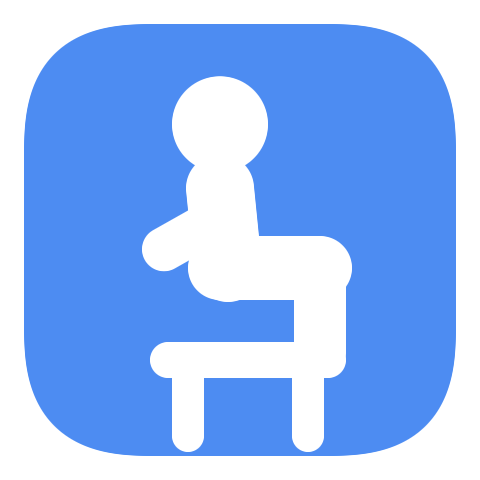
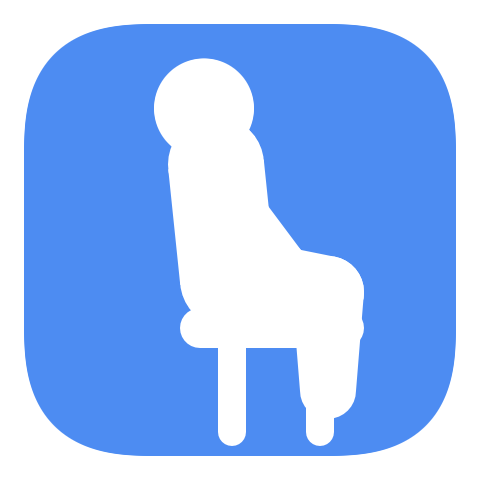
Redraw actor as a solid bathroom-guy silhouette
Replace the stroked stick-figure limbs (which read as blocky) with a
solid AIGA restroom-pictogram silhouette: each limb is a filled tapered
shape (wide at the joint, narrow at the end) that merges into one smooth
mass — broad rounded shoulders, tapering trunk, thin leg notch. Stand is
front-facing; sit is a side profile on a stool with breathing + a foot
tap; move is a side-profile walking stride (legs scissor, arm swings).

Changed region(s): [[0.2812, 0.0938, 0.7812, 0.9688]]

diff --git a/Sources/SitStandMove/FigureView.swift b/Sources/SitStandMove/FigureView.swift
@@ -1,12 +1,14 @@
 import SwiftUI
 
-/// A little restroom-sign style person performing the current action, drawn as
-/// a crisp solid-white silhouette on a solid phase-color tile (the "Sign"
-/// design direction) with a bit of looping motion: breathing while sitting,
-/// swaying while standing, marching while moving.
+/// A solid restroom-pictogram "bathroom guy" performing the current action,
+/// drawn white on a solid phase-color tile. The body is built from filled
+/// *tapered* limbs (wide at the joint, narrow at the end) that overlap into one
+/// smooth silhouette — broad rounded shoulders, a tapering trunk, legs split by
+/// a thin notch — rather than uniform-width sticks.
 ///
-/// All coordinates below live in a 0...120 space matching the source artwork,
-/// and are scaled to the view at draw time.
+/// Coordinates live in a 0...120 space (matching the source artwork) and are
+/// scaled to the view at draw time. Looping motion: breathing + a foot tap when
+/// seated, a gentle sway when standing, a march when moving.
 struct FigureView: View {
     let phase: Phase
 
@@ -19,97 +21,112 @@ struct FigureView: View {
         .accessibilityLabel("\(phase.title) figure")
     }
 
-    private struct Limb { var points: [CGPoint]; var width: Double }
-    private struct Figure { var head: CGPoint; var headRadius: Double; var limbs: [Limb]; var props: [Limb] }
+    /// A tapered segment: half-width `wa` at point `a`, `wb` at point `b`.
+    private struct Limb { var a: CGPoint; var wa: Double; var b: CGPoint; var wb: Double }
+    private struct Fig { var head: CGPoint; var headR: Double; var limbs: [Limb]; var props: [Limb] }
 
     // MARK: - Rendering
 
     private func draw(_ ctx: GraphicsContext, _ size: CGSize, _ t: Double) {
-        let unit = min(size.width, size.height)
-        let scale = unit / 120.0
+        let scale = min(size.width, size.height) / 120.0
 
-        // Solid phase-color tile: the high-contrast backdrop that makes the
-        // white figure pop and stay distinct from the panel behind it.
-        let margin = 6.0 * scale
-        let tileRect = CGRect(x: margin, y: margin,
-                              width: size.width - 2 * margin,
-                              height: size.height - 2 * margin)
-        ctx.fill(Path(roundedRect: tileRect, cornerRadius: 26 * scale), with: .color(phase.tint))
+        let m = 6 * scale
+        let tile = CGRect(x: m, y: m, width: size.width - 2 * m, height: size.height - 2 * m)
+        ctx.fill(Path(roundedRect: tile, cornerRadius: 26 * scale), with: .color(phase.tint))
 
-        let figure = figure(t: t)
-        let white = GraphicsContext.Shading.color(.white)
+        let fig = figure(t)
+        for limb in fig.props + fig.limbs { fill(ctx, size, scale, limb) }
 
-        for limb in figure.props + figure.limbs {
-            ctx.stroke(path(limb.points, size), with: white,
-                       style: StrokeStyle(lineWidth: limb.width * scale, lineCap: .round, lineJoin: .round))
-        }
+        let r = fig.headR * scale
+        let c = point(fig.head, size)
+        ctx.fill(Path(ellipseIn: CGRect(x: c.x - r, y: c.y - r, width: 2 * r, height: 2 * r)), with: .color(.white))
+    }
 
-        let r = figure.headRadius * scale
-        let c = point(figure.head, size)
-        ctx.fill(Path(ellipseIn: CGRect(x: c.x - r, y: c.y - r, width: 2 * r, height: 2 * r)), with: white)
+    /// Fill one tapered limb as two end-discs plus the connecting trapezoid.
+    /// Overlapping white fills merge seamlessly into the unified silhouette.
+    private func fill(_ ctx: GraphicsContext, _ size: CGSize, _ scale: Double, _ l: Limb) {
+        let p0 = point(l.a, size), p1 = point(l.b, size)
+        let r0 = l.wa * scale, r1 = l.wb * scale
+
+        var discs = Path()
+        discs.addEllipse(in: CGRect(x: p0.x - r0, y: p0.y - r0, width: 2 * r0, height: 2 * r0))
+        discs.addEllipse(in: CGRect(x: p1.x - r1, y: p1.y - r1, width: 2 * r1, height: 2 * r1))
+        ctx.fill(discs, with: .color(.white))
+
+        let dx = p1.x - p0.x, dy = p1.y - p0.y
+        let len = max(0.0001, (dx * dx + dy * dy).squareRoot())
+        let nx = -dy / len, ny = dx / len
+        var quad = Path()
+        quad.move(to: CGPoint(x: p0.x + nx * r0, y: p0.y + ny * r0))
+        quad.addLine(to: CGPoint(x: p1.x + nx * r1, y: p1.y + ny * r1))
+        quad.addLine(to: CGPoint(x: p1.x - nx * r1, y: p1.y - ny * r1))
+        quad.addLine(to: CGPoint(x: p0.x - nx * r0, y: p0.y - ny * r0))
+        quad.closeSubpath()
+        ctx.fill(quad, with: .color(.white))
     }
 
     // MARK: - Poses
 
-    private func figure(t: Double) -> Figure {
+    private func figure(_ t: Double) -> Fig {
         switch phase {
-        case .sit:   return sit(t)
-        case .stand: return stand(t)
-        case .move:  return move(t)
+        case .sit:   return sitFig(t)
+        case .stand: return standFig(t)
+        case .move:  return moveFig(t)
         }
     }
 
-    private func sit(_ t: Double) -> Figure {
-        let b = sin(t * 1.6) * 1.3   // gentle breathing of the upper body
-        return Figure(
-            head: CGPoint(x: 55, y: 30 + b),
-            headRadius: 12,
+    private func standFig(_ t: Double) -> Fig {
+        let sx = sin(t * 1.4) * 1.3   // gentle upper-body sway
+        return Fig(
+            head: CGPoint(x: 60 + sx, y: 23), headR: 13,
             limbs: [
-                Limb(points: [CGPoint(x: 55, y: 46 + b), CGPoint(x: 57, y: 67)], width: 17),  // torso
-                Limb(points: [CGPoint(x: 55, y: 67), CGPoint(x: 80, y: 67)], width: 16),       // thigh
-                Limb(points: [CGPoint(x: 80, y: 67), CGPoint(x: 80, y: 88)], width: 13),       // shin
-                Limb(points: [CGPoint(x: 58, y: 52 + b * 0.7), CGPoint(x: 41, y: 62 + b * 0.3)], width: 11), // arm
-            ],
-            props: [
-                Limb(points: [CGPoint(x: 42, y: 90), CGPoint(x: 82, y: 90)], width: 9),  // seat
-                Limb(points: [CGPoint(x: 47, y: 92), CGPoint(x: 47, y: 109)], width: 8), // chair leg
-                Limb(points: [CGPoint(x: 77, y: 92), CGPoint(x: 77, y: 109)], width: 8), // chair leg
-            ]
-        )
-    }
-
-    private func stand(_ t: Double) -> Figure {
-        let sx = sin(t * 1.5) * 1.5   // gentle sway of the upper body
-        return Figure(
-            head: CGPoint(x: 60 + sx, y: 29),
-            headRadius: 12,
-            limbs: [
-                Limb(points: [CGPoint(x: 60 + sx, y: 45), CGPoint(x: 60, y: 74)], width: 18), // torso
-                Limb(points: [CGPoint(x: 54, y: 76), CGPoint(x: 54, y: 102)], width: 13),      // leg
-                Limb(points: [CGPoint(x: 66, y: 76), CGPoint(x: 66, y: 102)], width: 13),      // leg
-                Limb(points: [CGPoint(x: 50 + sx, y: 50), CGPoint(x: 48, y: 74)], width: 11),  // arm
-                Limb(points: [CGPoint(x: 70 + sx, y: 50), CGPoint(x: 72, y: 74)], width: 11),  // arm
+                L(60 + sx, 45, 20, 60, 73, 14),  // shoulders -> waist (broad, tapering)
+                L(47 + sx, 49, 7.5, 44, 79, 6),  // left arm
+                L(73 + sx, 49, 7.5, 76, 79, 6),  // right arm
+                L(52, 73, 9, 52, 106, 7),        // left leg
+                L(68, 73, 9, 68, 106, 7),        // right leg
             ],
             props: []
         )
     }
 
-    private func move(_ t: Double) -> Figure {
-        let s = sin(t * 5.0)
-        let bob = -abs(s) * 1.6        // body rises slightly with each step
-        let lift = 14.0
-        let lk = max(0, -s) * lift     // left knee/foot lift
-        let rk = max(0,  s) * lift     // right knee/foot lift
-        let hipY = 73 + bob * 0.6
-        return Figure(
-            head: CGPoint(x: 60, y: 29 + bob),
-            headRadius: 12,
+    private func sitFig(_ t: Double) -> Fig {
+        let breathe = sin(t * 1.6) * 1.0          // slow breathing
+        let tap = max(0, sin(t * 4.5)) * 3.0      // restless foot tap
+        return Fig(
+            head: CGPoint(x: 51, y: 27 + breathe), headR: 12.5,
             limbs: [
-                Limb(points: [CGPoint(x: 60, y: 45 + bob), CGPoint(x: 59, y: 71 + bob * 0.6)], width: 18), // torso
-                Limb(points: [CGPoint(x: 54, y: hipY), CGPoint(x: 54, y: 90 - lk), CGPoint(x: 54, y: 104 - lk * 1.5)], width: 13),
-                Limb(points: [CGPoint(x: 66, y: hipY), CGPoint(x: 66, y: 90 - rk), CGPoint(x: 66, y: 104 - rk * 1.5)], width: 13),
-                Limb(points: [CGPoint(x: 51, y: 50 + bob), CGPoint(x: 45, y: 64 - 8 * s)], width: 11), // arm
-                Limb(points: [CGPoint(x: 69, y: 50 + bob), CGPoint(x: 75, y: 64 + 8 * s)], width: 11), // arm
+                L(54, 41 + breathe, 12, 57, 70, 12),       // torso (upright, side profile)
+                L(55, 47 + breathe, 7, 71, 66, 5.5),       // arm resting forward
+                L(57, 70, 11, 82, 73, 9),                  // thigh (horizontal)
+                L(82, 73, 9, 82, 100 - tap, 7),            // shin (foot taps)
+            ],
+            props: [
+                L(50, 82, 5, 86, 82, 5),      // stool seat slab
+                L(80, 85, 3.5, 80, 108, 3.5), // front leg
+                L(58, 85, 3.5, 58, 108, 3.5), // back leg
+            ]
+        )
+    }
+
+    private func moveFig(_ t: Double) -> Fig {
+        // Side-profile walking stride: legs scissor fore/aft and arms counter-
+        // swing, so it reads as walking even in a still frame.
+        let s = sin(t * 4.5)
+        let bob = -abs(s) * 1.6
+        let hipY = 72 + bob * 0.6
+        let kneeSpread = 9.0, footSpread = 17.0
+        let frontLift = max(0, s) * 4, backLift = max(0, -s) * 4
+        return Fig(
+            head: CGPoint(x: 60, y: 23 + bob), headR: 13,
+            limbs: [
+                L(61, 45 + bob, 16, 59, hipY, 13),                                         // torso (leans forward)
+                L(60, 49 + bob, 6.5, 60 - 13 * s, 71, 5),                                  // arm
+                L(60, 49 + bob, 6.5, 60 + 13 * s, 71, 5),                                  // arm (opposite)
+                L(59, hipY, 9, 59 + kneeSpread * s, 90 - frontLift, 8),                    // leg thigh
+                L(59 + kneeSpread * s, 90 - frontLift, 8, 59 + footSpread * s, 106 - frontLift, 7), // leg shin
+                L(59, hipY, 9, 59 - kneeSpread * s, 90 - backLift, 8),                     // leg thigh (opposite)
+                L(59 - kneeSpread * s, 90 - backLift, 8, 59 - footSpread * s, 106 - backLift, 7),  // leg shin (opposite)
             ],
             props: []
         )
@@ -117,15 +134,12 @@ struct FigureView: View {
 
     // MARK: - Helpers
 
-    private func point(_ p: CGPoint, _ size: CGSize) -> CGPoint {
-        CGPoint(x: p.x / 120 * size.width, y: p.y / 120 * size.height)
+    private func L(_ ax: Double, _ ay: Double, _ wa: Double,
+                   _ bx: Double, _ by: Double, _ wb: Double) -> Limb {
+        Limb(a: CGPoint(x: ax, y: ay), wa: wa, b: CGPoint(x: bx, y: by), wb: wb)
     }
 
-    private func path(_ points: [CGPoint], _ size: CGSize) -> Path {
-        var path = Path()
-        guard let first = points.first else { return path }
-        path.move(to: point(first, size))
-        for p in points.dropFirst() { path.addLine(to: point(p, size)) }
-        return path
+    private func point(_ p: CGPoint, _ size: CGSize) -> CGPoint {
+        CGPoint(x: p.x / 120 * size.width, y: p.y / 120 * size.height)
     }
 }